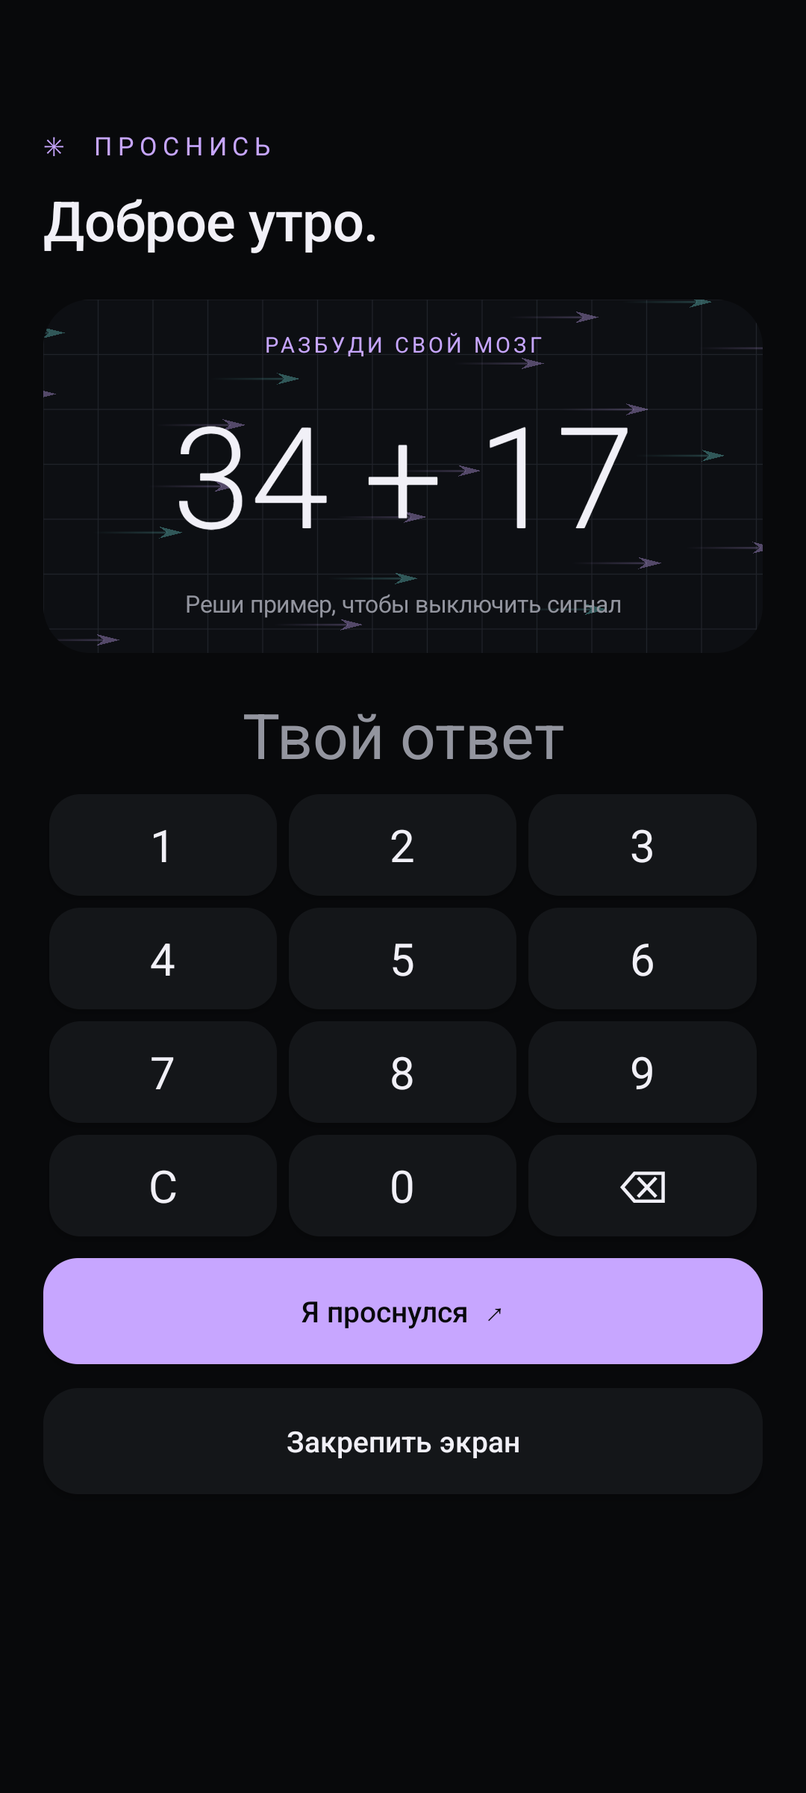
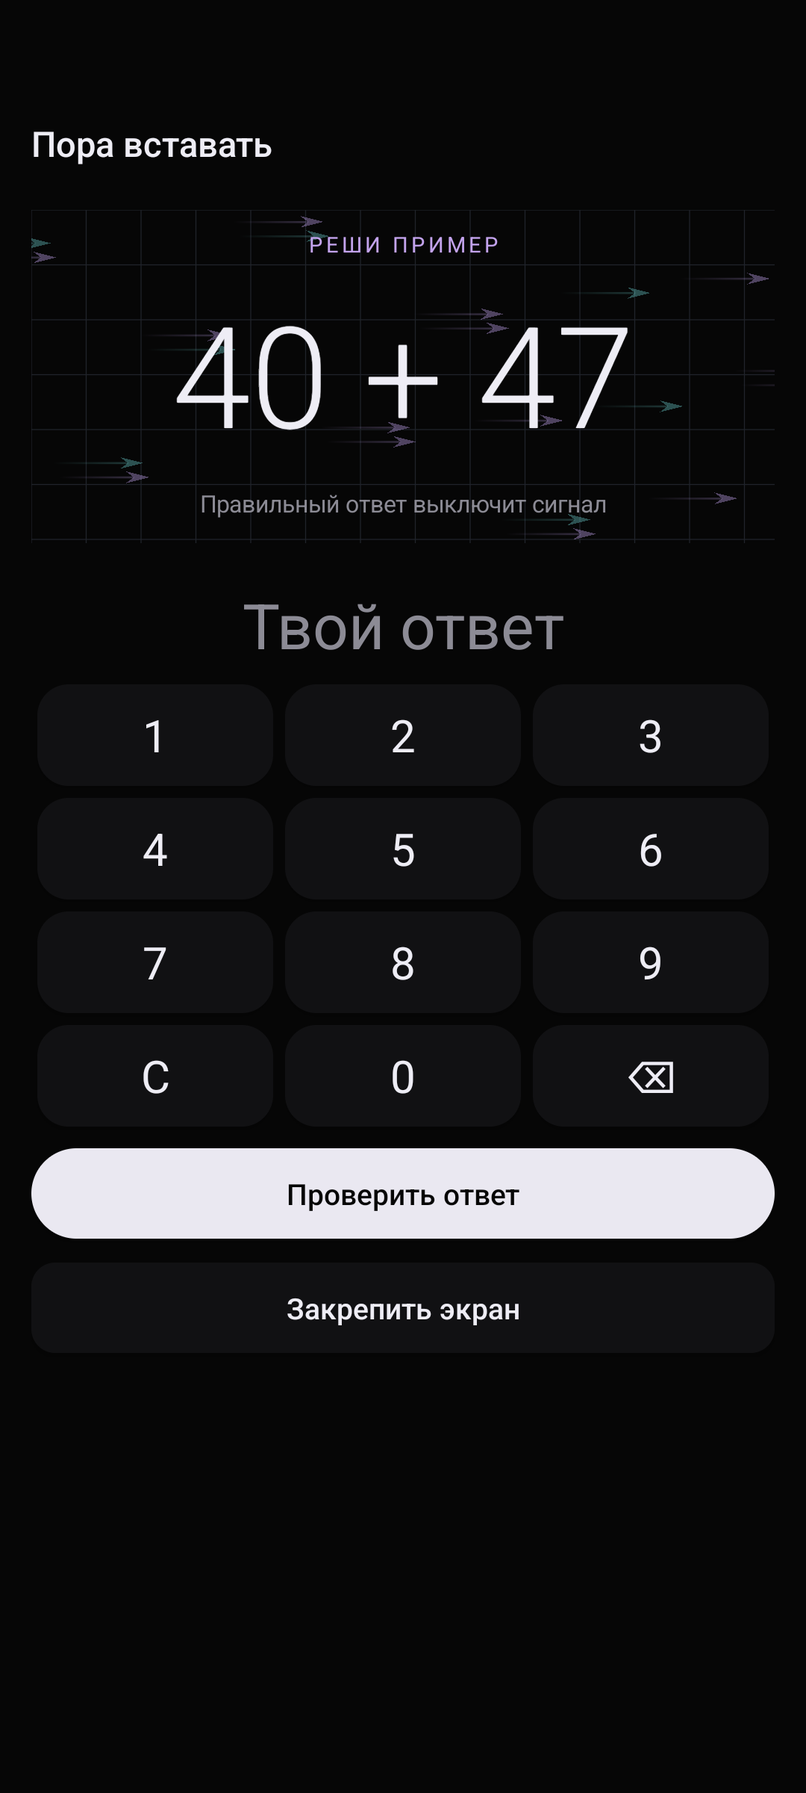
Set two-minute wake check and refine compact AWA interface

diff --git a/app/src/main/java/app/alarmchallenge/MainActivity.java b/app/src/main/java/app/alarmchallenge/MainActivity.java
@@ -15,7 +15,7 @@ import java.util.*;
 public class MainActivity extends Activity {
  private android.content.SharedPreferences prefs;
  private LinearLayout root; private int answer;
- private static final int BG=0xff08090b, CARD=0xff141619, FG=0xfff1f0f7, MUTED=0xff93959f, ACCENT=0xffc7a6ff;
+ private static final int BG=0xff060606, CARD=0xff111113, FG=0xffeeedf5, MUTED=0xff8c8b95, ACCENT=0xffc3a3ed;
  private int dp(float n) { return (int)(n*getResources().getDisplayMetrics().density+.5f); }
  private android.graphics.drawable.GradientDrawable shape(int color,int radius) { android.graphics.drawable.GradientDrawable d=new android.graphics.drawable.GradientDrawable(); d.setColor(color); d.setCornerRadius(dp(radius)); return d; }
  private LinearLayout column(LinearLayout parent,int padding) { LinearLayout box=new LinearLayout(this); box.setOrientation(1); box.setPadding(dp(padding),dp(padding),dp(padding),dp(padding)); LinearLayout.LayoutParams lp=new LinearLayout.LayoutParams(-1,-2); lp.bottomMargin=dp(12); parent.addView(box,lp); return box; }
@@ -30,20 +30,20 @@ public class MainActivity extends Activity {
  private TextView text(String s,int size) { return label(root,s,size,FG); }
  private Button button(String s,Runnable action) {
   Button b=new Button(this); b.setText(s); b.setTextSize(15); b.setAllCaps(false); b.setTextColor(FG); b.setTypeface(android.graphics.Typeface.create("sans-serif-medium",0));
-  b.setBackground(new android.graphics.drawable.RippleDrawable(android.content.res.ColorStateList.valueOf(0x33ffffff),shape(CARD,18),null));
-  LinearLayout.LayoutParams lp=new LinearLayout.LayoutParams(-1,dp(54));lp.topMargin=dp(8);lp.bottomMargin=dp(4);root.addView(b,lp);b.setOnClickListener(v->action.run());return b;
+  b.setBackground(new android.graphics.drawable.RippleDrawable(android.content.res.ColorStateList.valueOf(0x33ffffff),shape(CARD,12),null));
+  LinearLayout.LayoutParams lp=new LinearLayout.LayoutParams(-1,dp(46));lp.topMargin=dp(8);lp.bottomMargin=dp(4);root.addView(b,lp);b.setOnClickListener(v->action.run());return b;
  }
- private void primary(String title,Runnable action) { Button b=button(title,action);b.setTextColor(BG);b.setBackground(new android.graphics.drawable.RippleDrawable(android.content.res.ColorStateList.valueOf(0x33000000),shape(ACCENT,18),null)); }
+ private void primary(String title,Runnable action) { Button b=button(title,action);b.setTextColor(BG);b.setBackground(new android.graphics.drawable.RippleDrawable(android.content.res.ColorStateList.valueOf(0x33000000),shape(0xffeae8f1,24),null)); }
  private void base(String title) {
   getWindow().setStatusBarColor(BG);getWindow().setNavigationBarColor(BG);getWindow().getDecorView().setSystemUiVisibility(0);
   ScrollView scroll=new ScrollView(this);scroll.setBackgroundColor(BG);scroll.setFitsSystemWindows(true);scroll.setFillViewport(true);
-  root=new LinearLayout(this);root.setOrientation(1);root.setPadding(dp(22),dp(12),dp(22),dp(24));scroll.addView(root);setContentView(scroll);
-  TextView brand=text("✳  ПРОСНИСЬ",13);brand.setLetterSpacing(.23f);brand.setTextColor(ACCENT);
-  TextView heading=text(title,28);heading.setTypeface(android.graphics.Typeface.create("sans-serif-medium",0));
+  root=new LinearLayout(this);root.setOrientation(1);root.setPadding(dp(16),dp(8),dp(16),dp(16));scroll.addView(root);setContentView(scroll);
+  TextView heading=text(title,18);heading.setTypeface(android.graphics.Typeface.create("sans-serif-medium",0));
  }
  private void hero(String eyebrow,String main,String caption,int height) {
-  FrameLayout frame=new FrameLayout(this); frame.setBackground(shape(0xff0d0f13,24));frame.setClipToOutline(true);
+  FrameLayout frame=new FrameLayout(this); frame.setBackground(shape(BG,0));frame.setClipToOutline(true);
   LinearLayout.LayoutParams fp=new LinearLayout.LayoutParams(-1,dp(height));fp.topMargin=dp(16);fp.bottomMargin=dp(16);root.addView(frame,fp);
+
   frame.addView(new FlowView(this),new FrameLayout.LayoutParams(-1,-1));
   LinearLayout content=new LinearLayout(this);content.setOrientation(1);content.setGravity(Gravity.CENTER);content.setPadding(dp(12),0,dp(12),0);frame.addView(content,new FrameLayout.LayoutParams(-1,-1));
   TextView e=label(content,eyebrow,11,ACCENT);e.setLetterSpacing(.18f);e.setGravity(Gravity.CENTER);
@@ -53,24 +53,32 @@ public class MainActivity extends Activity {
  private void render() {
   if(prefs.getBoolean("ringing",false)) {challenge();return;}
   if(prefs.getBoolean("awaiting",false)) {confirmation();return;}
-  base("Твоё утро. Твои правила.");
+  base("✳  П Р О С Н И С Ь");
   boolean enabled=prefs.getBoolean("enabled",false);
-  hero(enabled?"СЛЕДУЮЩИЙ СИГНАЛ":"ВРЕМЯ ПРОСЫПАТЬСЯ",String.format(Locale.getDefault(),"%02d:%02d",prefs.getInt("hour",7),prefs.getInt("minute",0)),enabled?"●  Каждый день · будильник включён":"Каждый день · пока выключен",220);
-  primary(enabled?"Будильник включён  ·  выключить":"Включить будильник  ↗",this::toggleAlarm);
-  button("Изменить время",this::pickTime);
-  section("Звук пробуждения", "Все выбранные треки звучат одновременно.");
-  int count=0;try { count=new JSONArray(prefs.getString("tracks","[]")).length(); }catch(Exception ignored){}
-  LinearLayout saved=root;root=column(saved,16);root.setBackground(shape(CARD,20));
-  label(root,"≋   "+(count==0?"Системная мелодия":count+" треков в миксе"),17,FG);
-  label(root,count==0?"Добавь музыку, с которой точно встанешь.":"Твой утренний микс готов к запуску.",12,MUTED);
-  button("＋  Добавить мелодии",()->{Intent i=new Intent(Intent.ACTION_OPEN_DOCUMENT).setType("audio/*").addCategory(Intent.CATEGORY_OPENABLE).putExtra(Intent.EXTRA_ALLOW_MULTIPLE,true).addFlags(Intent.FLAG_GRANT_READ_URI_PERMISSION|Intent.FLAG_GRANT_PERSISTABLE_URI_PERMISSION);startActivityForResult(i,42);});
-  if(count>0)button("Очистить микс",()->{prefs.edit().putString("tracks","[]").apply();render();});root=saved;
-  section("Не уснуть снова",null);
-  button("Проверка через "+prefs.getInt("delay",5)+" мин   →",()->{String[] values={"1 минута","5 минут","10 минут","15 минут","30 минут"};int[] mins={1,5,10,15,30};new AlertDialog.Builder(this).setTitle("Когда проверить пробуждение?").setItems(values,(d,which)->{prefs.edit().putInt("delay",mins[which]).apply();render();}).show();});
-  label(root,"Не ответишь за минуту — сигнал повторится.",12,MUTED);
-  button("▷  Послушать и проверить",()->{if(permissions()){new AlarmReceiver().onReceive(this,new Intent(this,AlarmReceiver.class).setAction(Alarms.RING));render();}});
-  label(root,"Перед первым утром проверь звук и разрешения на своём телефоне.",12,MUTED);
+  LinearLayout status=new LinearLayout(this);status.setGravity(Gravity.CENTER_VERTICAL);root.addView(status);
+  TextView everyday=new TextView(this);everyday.setText(enabled?"Каждый день · включён":"Каждый день · выключен");everyday.setTextColor(MUTED);everyday.setTextSize(12);status.addView(everyday,new LinearLayout.LayoutParams(0,dp(36),1));everyday.setGravity(Gravity.CENTER_VERTICAL);
+  Switch toggle=new Switch(this);toggle.setContentDescription("Включить будильник");toggle.setChecked(enabled);toggle.setThumbTintList(android.content.res.ColorStateList.valueOf(enabled?ACCENT:0xff8c8b95));status.addView(toggle);toggle.setOnCheckedChangeListener((v,on)->toggleAlarm());
+  hero("БУДИЛЬНИК",String.format(Locale.getDefault(),"%02d:%02d",prefs.getInt("hour",7),prefs.getInt("minute",0)),"Нажми на время, чтобы изменить",310);
+  root.getChildAt(root.getChildCount()-1).setOnClickListener(v->pickTime());
+  int count=0;try{count=new JSONArray(prefs.getString("tracks","[]")).length();}catch(Exception ignored){}
+  divider();
+  setting("♫", "Мелодии",count==0?"Системный сигнал":count+" треков · играют вместе",()->{Intent i=new Intent(Intent.ACTION_OPEN_DOCUMENT).setType("audio/*").addCategory(Intent.CATEGORY_OPENABLE).putExtra(Intent.EXTRA_ALLOW_MULTIPLE,true).addFlags(Intent.FLAG_GRANT_READ_URI_PERMISSION|Intent.FLAG_GRANT_PERSISTABLE_URI_PERMISSION);startActivityForResult(i,42);});
+  if(count>0){TextView clear=label(root,"Очистить список",12,MUTED);clear.setOnClickListener(v->{prefs.edit().putString("tracks","[]").apply();render();});}
+  divider();
+  setting("◷", "Проверка пробуждения","Через 2 минуты после решения",()->new AlertDialog.Builder(this).setTitle("Проверка через 2 минуты").setMessage("После правильного ответа придёт уведомление. Подтверди пробуждение за минуту, иначе будильник зазвонит снова.").setPositiveButton("Понятно",null).show());
+  divider();
+  long due=prefs.getLong("checkDue",0);if(due>System.currentTimeMillis())label(root,"Следующая проверка в "+new java.text.SimpleDateFormat("HH:mm",Locale.getDefault()).format(new Date(due)),12,ACCENT);
+  primary("▷   Проверить сигнал",()->{if(permissions()){new AlarmReceiver().onReceive(this,new Intent(this,AlarmReceiver.class).setAction(Alarms.RING));render();}});
  }
+ private void divider(){View line=new View(this);line.setBackgroundColor(0xff252529);root.addView(line,new LinearLayout.LayoutParams(-1,dp(1)));}
+
+ private void setting(String icon,String title,String subtitle,Runnable action){
+  LinearLayout row=new LinearLayout(this);row.setGravity(Gravity.CENTER_VERTICAL);row.setPadding(0,dp(10),0,dp(10));root.addView(row,new LinearLayout.LayoutParams(-1,-2));
+  TextView symbol=new TextView(this);symbol.setText(icon);symbol.setTextSize(20);symbol.setTextColor(ACCENT);symbol.setGravity(Gravity.CENTER);symbol.setBackground(shape(CARD,10));row.addView(symbol,new LinearLayout.LayoutParams(dp(42),dp(42)));
+  LinearLayout content=new LinearLayout(this);content.setOrientation(1);content.setPadding(dp(14),0,0,0);row.addView(content,new LinearLayout.LayoutParams(0,-2,1));label(content,title,14,FG);label(content,subtitle,12,MUTED);
+  TextView arrow=new TextView(this);arrow.setText("›");arrow.setTextSize(24);arrow.setTextColor(MUTED);row.addView(arrow);row.setOnClickListener(v->action.run());row.setContentDescription(title+". "+subtitle);row.setBackground(new android.graphics.drawable.RippleDrawable(android.content.res.ColorStateList.valueOf(0x20c3a3ed),null,shape(CARD,12)));
+ }
+
  private boolean permissions() {
   if(Build.VERSION.SDK_INT>=33 && checkSelfPermission(Manifest.permission.POST_NOTIFICATIONS)!=PackageManager.PERMISSION_GRANTED) { requestPermissions(new String[]{Manifest.permission.POST_NOTIFICATIONS},7); Toast.makeText(this,"Разрешите уведомления и нажмите ещё раз",Toast.LENGTH_LONG).show(); return false; }
   if(Build.VERSION.SDK_INT>=31 && !getSystemService(AlarmManager.class).canScheduleExactAlarms()) { startActivity(new Intent(Settings.ACTION_REQUEST_SCHEDULE_EXACT_ALARM,Uri.parse("package:"+getPackageName()))); Toast.makeText(this,"Разрешите точные будильники и нажмите ещё раз",Toast.LENGTH_LONG).show(); return false; }
@@ -78,22 +86,22 @@ public class MainActivity extends Activity {
   return true;
  }
  private void challenge() {
-  base("Доброе утро.");
+  base("Пора вставать");
   getWindow().getDecorView().setSystemUiVisibility(View.SYSTEM_UI_FLAG_FULLSCREEN|View.SYSTEM_UI_FLAG_HIDE_NAVIGATION|View.SYSTEM_UI_FLAG_IMMERSIVE_STICKY);
   int a=prefs.getInt("a",-1),b=prefs.getInt("b",-1);if(a<0){Random r=new Random();a=12+r.nextInt(38);b=11+r.nextInt(39);prefs.edit().putInt("a",a).putInt("b",b).apply();} answer=a+b;
-  hero("РАЗБУДИ СВОЙ МОЗГ",a+" + "+b,"Реши пример, чтобы выключить сигнал",180);
+  hero("РЕШИ ПРИМЕР",a+" + "+b,"Правильный ответ выключит сигнал",170);
   TextView input=text("Твой ответ",32);input.setGravity(Gravity.CENTER);input.setTextColor(MUTED);input.setContentDescription("Поле ответа");
   StringBuilder digits=new StringBuilder();
   for(String[] row:new String[][]{{"1","2","3"},{"4","5","6"},{"7","8","9"},{"C","0","⌫"}}){
    LinearLayout line=new LinearLayout(this);root.addView(line,new LinearLayout.LayoutParams(-1,dp(58)));
-   for(String key:row){Button k=new Button(this);k.setAllCaps(false);k.setText(key);k.setTextSize(23);k.setTextColor(FG);k.setContentDescription(key.equals("⌫")?"Удалить цифру":key.equals("C")?"Очистить ответ":key);k.setBackground(new android.graphics.drawable.RippleDrawable(android.content.res.ColorStateList.valueOf(0x44c7a6ff),shape(CARD,16),null));LinearLayout.LayoutParams lp=new LinearLayout.LayoutParams(0,-1,1);lp.setMargins(dp(3),dp(3),dp(3),dp(3));line.addView(k,lp);
+   for(String key:row){Button k=new Button(this);k.setAllCaps(false);k.setText(key);k.setTextSize(23);k.setTextColor(FG);k.setContentDescription(key.equals("⌫")?"Удалить цифру":key.equals("C")?"Очистить ответ":key);k.setBackground(new android.graphics.drawable.RippleDrawable(android.content.res.ColorStateList.valueOf(0x22c3a3ed),shape(CARD,16),null));LinearLayout.LayoutParams lp=new LinearLayout.LayoutParams(0,-1,1);lp.setMargins(dp(3),dp(3),dp(3),dp(3));line.addView(k,lp);
     k.setOnClickListener(v->{if(key.equals("C"))digits.setLength(0);else if(key.equals("⌫")){if(digits.length()>0)digits.deleteCharAt(digits.length()-1);}else if(digits.length()<4)digits.append(key);input.setText(digits.length()==0?"Твой ответ":digits.toString());input.setTextColor(FG);});
    }
   }
-  primary("Я проснулся  ↗",()->{if(digits.toString().equals(String.valueOf(answer))){long when=System.currentTimeMillis()+prefs.getInt("delay",5)*60_000L;if(!Alarms.schedule(this,Alarms.CHECK,when)){Toast.makeText(this,"Нет разрешения на точные будильники",Toast.LENGTH_LONG).show();return;}prefs.edit().putBoolean("ringing",false).putLong("checkDue",when).remove("a").remove("b").apply();try{stopLockTask();}catch(Exception ignored){}stopService(new Intent(this,AlarmService.class));render();}else{input.setText("Ещё попытка");input.setTextColor(0xffff969c);digits.setLength(0);}});
+  primary("Проверить ответ",()->{if(digits.toString().equals(String.valueOf(answer))){long when=System.currentTimeMillis()+Alarms.CHECK_DELAY_MS;if(!Alarms.schedule(this,Alarms.CHECK,when)){Toast.makeText(this,"Нет разрешения на точные будильники",Toast.LENGTH_LONG).show();return;}prefs.edit().putBoolean("ringing",false).putLong("checkDue",when).remove("a").remove("b").apply();try{stopLockTask();}catch(Exception ignored){}stopService(new Intent(this,AlarmService.class));render();}else{input.setText("Ещё попытка");input.setTextColor(0xffb4473f);digits.setLength(0);}});
   button("Закрепить экран",()->{try{startLockTask();}catch(Exception e){Toast.makeText(this,"Не удалось закрепить экран",Toast.LENGTH_SHORT).show();}});
  }
- private void confirmation(){base("На ногах?");hero("ПРОВЕРКА ПРОБУЖДЕНИЯ","Ты здесь?","Осталось подтвердить, что ты не уснул",250);text("Хорошее утро начинается с одного действия.",20);label(root,"Нажми кнопку. Без ответа сигнал прозвучит снова.",14,MUTED);primary("Да, я уже встал  ✓",()->{Alarms.cancel(this,Alarms.MISSED);prefs.edit().putBoolean("awaiting",false).apply();getSystemService(NotificationManager.class).cancel(2);render();});}
+ private void confirmation(){base("Ты проснулся?");hero("ПРОШЛО 2 МИНУТЫ","Доброе утро","Подтверди, что не уснул снова",230);label(root,"Нажми кнопку. Без ответа сигнал прозвучит снова.",14,MUTED);primary("Да, я проснулся",()->{Alarms.cancel(this,Alarms.MISSED);prefs.edit().putBoolean("awaiting",false).apply();getSystemService(NotificationManager.class).cancel(2);render();});}
  @Override public void onBackPressed() { if(prefs.getBoolean("ringing",false)) { Toast.makeText(this,"Решите пример, чтобы остановить сигнал",Toast.LENGTH_SHORT).show(); } else super.onBackPressed(); }
  @Override protected void onActivityResult(int request,int result,Intent data) { super.onActivityResult(request,result,data); if(request!=42||result!=RESULT_OK||data==null)return;
   try { JSONArray a=new JSONArray(prefs.getString("tracks","[]")); ArrayList<Uri> selected=new ArrayList<>(); if(data.getClipData()!=null) for(int n=0;n<data.getClipData().getItemCount();n++) selected.add(data.getClipData().getItemAt(n).getUri()); else if(data.getData()!=null) selected.add(data.getData());

diff --git a/app/src/main/java/app/alarmchallenge/Alarms.java b/app/src/main/java/app/alarmchallenge/Alarms.java
@@ -7,6 +7,7 @@ import android.provider.Settings;
 import java.util.Calendar;
 
 final class Alarms {
+ static final long CHECK_DELAY_MS = 120_000L;
  static final String PREF="alarm", RING="ring", CHECK="check", MISSED="missed";
  static PendingIntent intent(Context c, String action) {
   return PendingIntent.getBroadcast(c, action.equals(RING)?1:action.equals(CHECK)?2:3,

diff --git a/README.md b/README.md
@@ -1,6 +1,6 @@
 # Проснись
 
-Android-будильник: пользователь выбирает несколько аудиофайлов, и они повторяются одновременно. Для остановки сигнала нужно решить пример на сложение. Через выбранный интервал приходит уведомление; если не подтвердить пробуждение в течение минуты, сигнал звучит снова с новым примером. Будильник повторяется каждый день.
+Android-будильник: пользователь выбирает несколько аудиофайлов, и они повторяются одновременно. Для остановки сигнала нужно решить пример на сложение. Через 2 минуты после правильного ответа приходит уведомление; если не подтвердить пробуждение в течение минуты, сигнал звучит снова с новым примером. Будильник повторяется каждый день.
 
 ## Сборка
 
@@ -18,7 +18,7 @@ Android-будильник: пользователь выбирает неско
 
 [Скачать подписанный APK](https://github.com/Ee1evch/-/raw/refs/heads/main/downloads/prosnis.apk). Версия поддерживает Android 8.0 и новее, независимо от архитектуры процессора. Разрешите установку из выбранного источника в настройках телефона. Некоторые устройства или политики безопасности могут блокировать установку или ограничивать будильники.
 
[2 lines of base64/hex data omitted]
 
 ## Скриншоты
 
@@ -29,3 +29,7 @@ SHA-256 APK: `47958809a250ee2c22cafe0638e6d7e2d944c48c2efb46f18d24668c11bbbfc6`.
 ## Версия 1.1
 
 Тёмный интерфейс с анимированным векторным полем, крупными часами, сиреневыми акцентами и цифровой клавиатурой для решения примера. Анимация учитывает системное отключение анимаций. Проверены установка обновления и остановка сигнала правильным ответом в эмуляторе Android 15.
+
+## Версия 1.2
+
+Компактный чёрный интерфейс по референсу AWA: плоская сетка со стрелками, переключатель и строки настроек. Проверка пробуждения фиксирована через 120 секунд после правильного ответа, независимо от старых настроек. На Android 15 уведомление в реальном тесте появилось через 120,7 секунды. На подтверждение остаётся одна минута; без ответа сигнал повторяется.
